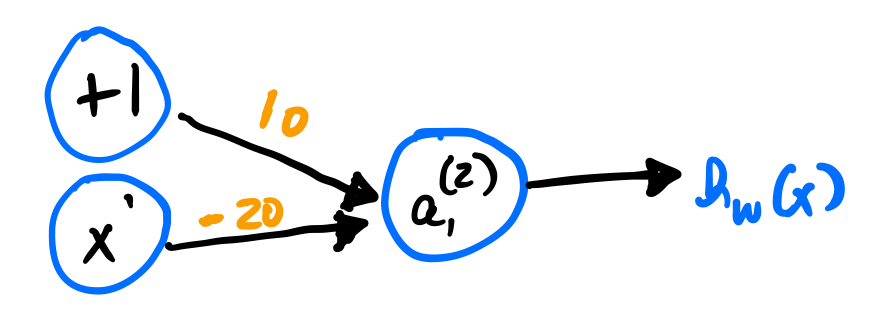
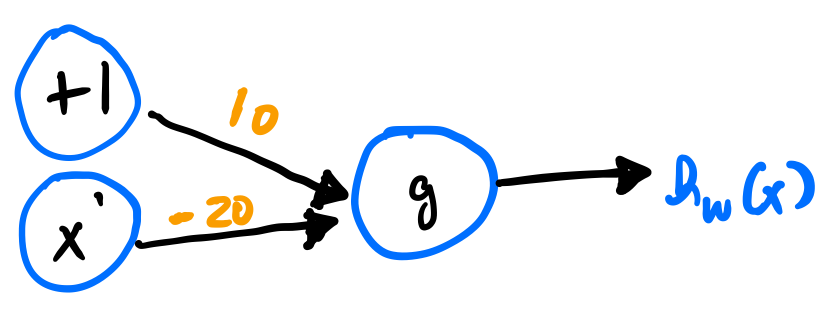
Finished the lecture about neural networks and fixed some errors.

Changed region(s): [[0.0, 0.0617, 0.7766, 0.9259], [0.7766, 0.463, 0.994, 0.7099]]

diff --git a/machine_learning/Classification/Neural_Networks/MLP/lecture.tex b/machine_learning/Classification/Neural_Networks/MLP/lecture.tex
@@ -315,7 +315,7 @@ $x^1$ & $x^2$ & $h_{\boldsymbol{w}}(\boldsymbol{x})$                      \\
 0  & 0  & $g(-10)\approx 0$ \\
 0  & 1  & $g(10)\approx 1$ \\
 1  & 0  & $g(10)\approx 1$ \\
-1  & 1  & $g(10)\approx 1$ \\
+1  & 1  & $g(30)\approx 1$ \\
 \end{tabular}
 \end{table}
 \null
@@ -517,6 +517,22 @@ Segue algoritmo de retropropagação para treinamento de uma rede neural MLP.
 		\item Avalie a função de custo $J(\boldsymbol{w})$
 	\end{enumerate}
 \end{enumerate}
+}
+
+\Sli{
+Resumindo: passo \emph{forward}.
+
+\begin{center}
+\includegraphics[scale=0.2]{./figs/Neural_Networks_Fig21.png}
+\end{center}
+}
+
+\Sli{
+Resumindo: passo \emph{backward}.
+
+\begin{center}
+\includegraphics[scale=0.2]{./figs/Neural_Networks_Fig22.png}
+\end{center}
 }
 
 \end{document}
